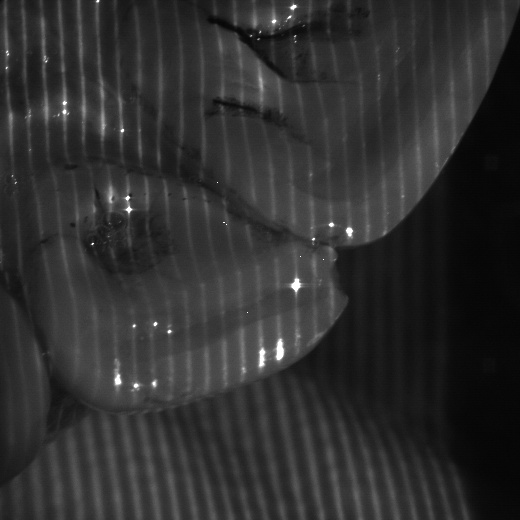
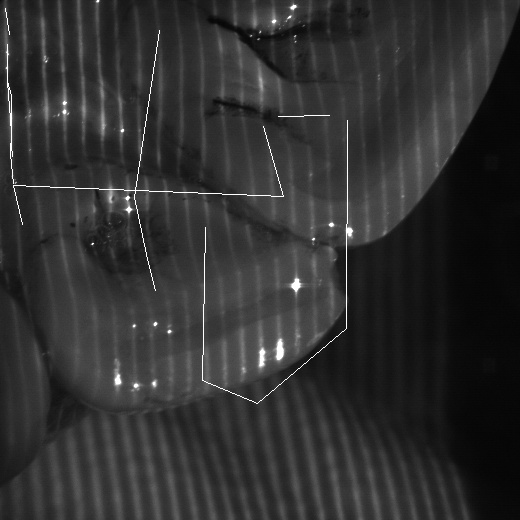
add consecutive functionality

Changed region(s): [[0.0, 0.1538, 0.0308, 0.2462], [0.2462, 0.3385, 0.2769, 0.3692], [0.0, 0.2769, 0.0308, 0.3077]]

diff --git a/main.py b/main.py
@@ -61,24 +61,30 @@ undone_lines = []  # Store the undone lines for redo functionality
 # Global variable to store points and the flag for dragging
 points = []
 dragging = False # Flag to track if mouse was dragging to draw
-leave_help = False
-leave_instruction = False
+leave_hint = False # Flag to record if hint info should disappear
+leave_help = False # Flag to record if help info should disappear
+consecutive_mode = False # Add a flag for consecutive drawing mode.
 
 # Callback function to capture mouse events
 def draw_line(event, x, y, flags, param):
-    global points, image, temp_image, dragging, lines, undone_lines, leave_help
+    global points, image, temp_image, lines, undone_lines, \
+           dragging, leave_hint, consecutive_mode
 
     if event == cv2.EVENT_LBUTTONDOWN:
         dragging = True
-        leave_help = True
-        points = [(x, y)]  # Reset points list with the new start
+        leave_hint = True
+        if consecutive_mode and lines:
+            # Start from the last point of the last line if consecutive mode is active
+            points = [lines[-1][1]]  # Last point of the last line
+        else:
+            points = [(x, y)]  # Reset points list with the new start
 
     elif event == cv2.EVENT_MOUSEMOVE and dragging:
         temp_image = image.copy()
         cv2.line(temp_image, points[0], (x, y), color, thickness=thickness)
         cv2.imshow('image', temp_image)
 
-    elif event == cv2.EVENT_LBUTTONUP:
+    elif event == cv2.EVENT_LBUTTONUP: # Record the drawing
         dragging = False
         points.append((x, y))  # Add end point
         lines.append((points[0], points[1]))  # Store the line
@@ -90,7 +96,6 @@ def draw_line(event, x, y, flags, param):
         ## Also clear redo history.
         undone_lines = [] 
 
-
 # Create a window and bind the callback function to the window
 cv2.namedWindow('image')
 cv2.setMouseCallback('image', draw_line)
@@ -100,20 +105,28 @@ cv2.imshow('image', image)
 
 while True:
     k = cv2.waitKey(0)
-    if k == ord('u'):  # Undo the last line drawn
+    # ====== Toggle consecutive drawing mode ======
+    if k == ord('c'):
+        consecutive_mode = not consecutive_mode  
+        print(f"[Command] Consecutive drawing mode {'enabled' if consecutive_mode else 'disabled'}.")
+    # ====== Undo the last line drawn ======
+    if k == ord('u'):  
         if lines:
             undone_lines.append(lines.pop())  # Move the last line to undone list
             image = backup_image.copy()  # Restore the previous state
             for line in lines:  # Redraw remaining lines
                 cv2.line(image, line[0], line[1], color, thickness=thickness)
+
             cv2.imshow('image', image)
-    elif k == ord('r'):  # Redo the last undone line
+    # ====== Redo the last undone line ======
+    elif k == ord('r'):  
         if undone_lines:
             line = undone_lines.pop()  # Get the last undone line
             lines.append(line)  # Move it back to lines list
             cv2.line(image, line[0], line[1], color, thickness=thickness)
             cv2.imshow('image', image)
-    elif k == ord('h'):  # Show/hide instructions
+    # ====== Show/hide instructions ======
+    elif k == ord('h'):  
         instruction_image = image.copy()
         instructions = [
             "Left click and drag to draw a line.",
@@ -123,22 +136,24 @@ while True:
             "Press 'h' to show/hide this help.",
             "Press left mouse to start drawing."
         ]
-        if leave_instruction == False:
+        if leave_help == False:
             y0, dy = 30, 30  # Initial position and line spacing
             for i, line in enumerate(instructions):
                 y = y0 + i * dy
                 cv2.putText(instruction_image, line, (10, y), cv2.FONT_HERSHEY_SIMPLEX, 0.6, color, 2)
             cv2.imshow('image', instruction_image)
-            leave_instruction = True
+            leave_help = True
         else:
             cv2.imshow('image', image)
-            leave_instruction = False
-    elif k == ord('s'):  # Save
+            leave_help = False
+    # ====== Leave and Save ======
+    elif k == ord('s'):  
         break
-    else: # exception handeling
+    # ====== Exception handeling (show hint) ======
+    else: 
         temp_image = image.copy()
         num_frame = 25
-        leave_help = False
+        leave_hint = False
         # Display the description on the temporary image
         hints = [
             "Press 'u' to undo, 'r' to redo.",
@@ -152,18 +167,14 @@ while True:
 
         # Wait for 2 second
         for alpha in np.linspace(1, 0, num=num_frame):  # Generate 10 steps from 1 to 0
-            if leave_help:
+            if leave_hint:
                 break
             if cv2.waitKey(2000//num_frame) != -1:  # Wait for 100 ms between frames
                 break
-
-        # if leave_help:
-        #     break
-        # cv2.waitKey(2000)  
-            
+             
         # Fade out effect
         for alpha in np.linspace(1, 0, num=num_frame):  # Generate 10 steps from 1 to 0
-            if leave_help:
+            if leave_hint:
                 break
             faded_image = cv2.addWeighted(temp_image, alpha, image, 1 - alpha, 0)
             cv2.imshow('image', faded_image)
